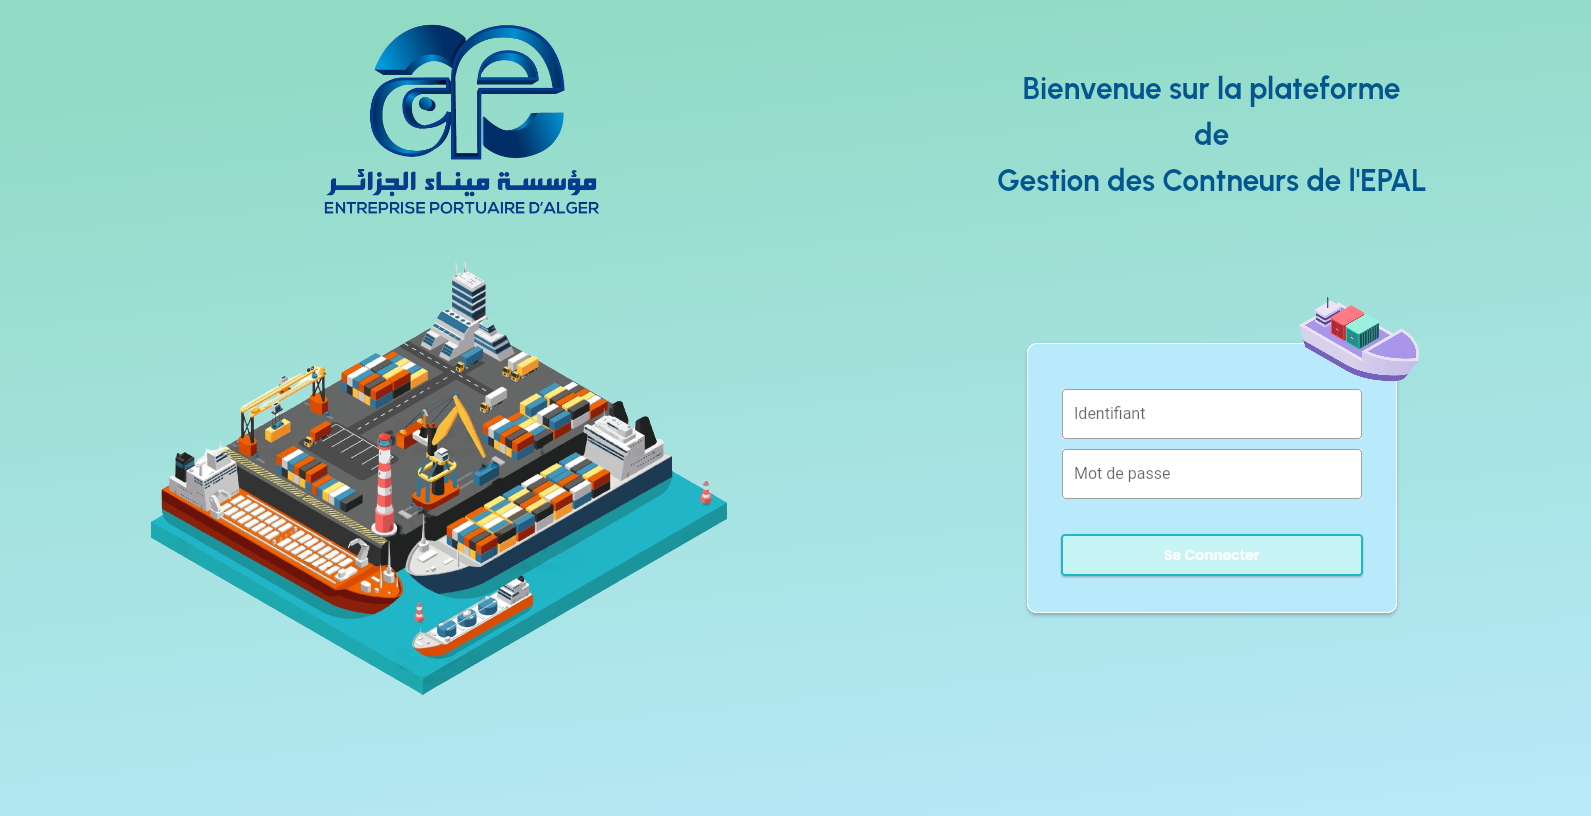
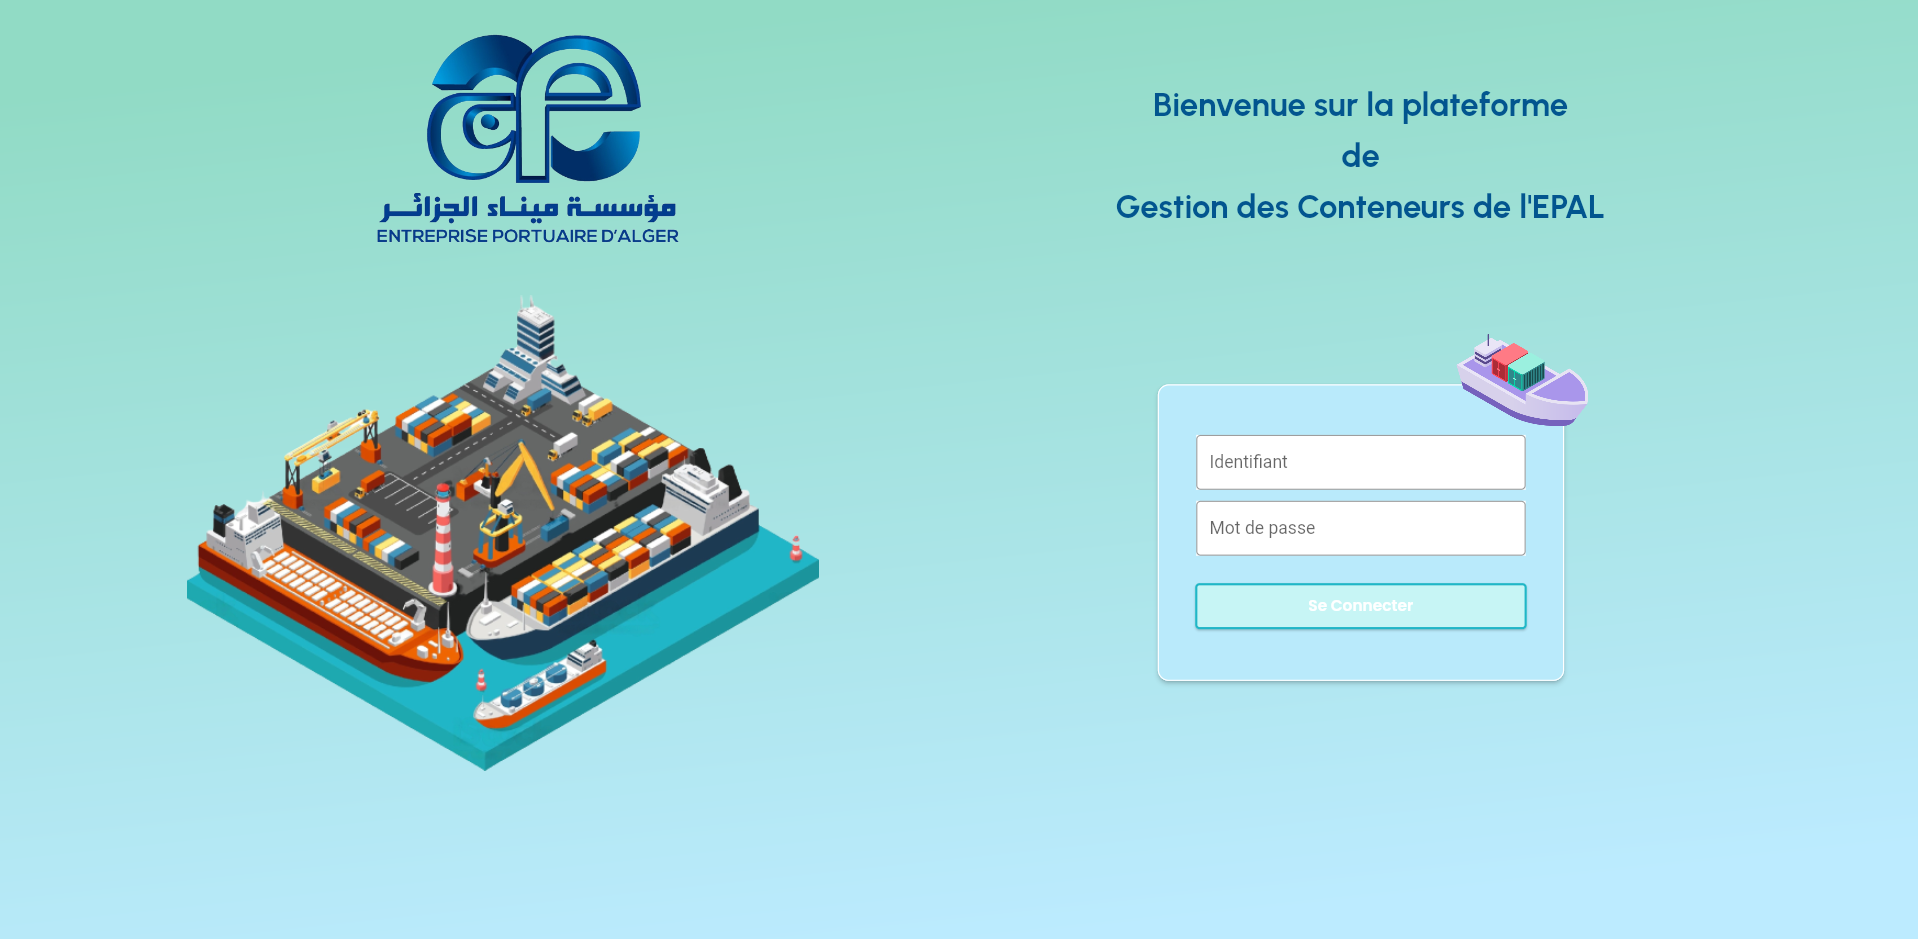
update admin login UI

diff --git a/epal/lib/WebPages/LoginPage.dart b/epal/lib/WebPages/LoginPage.dart
@@ -147,7 +147,7 @@ class _WebLoginPageState extends State<WebLoginPage> {
                   Padding(
                     padding: const EdgeInsets.only(bottom: 140),
                     child: Text(
-                      'Gestion des Contneurs de l\'EPAL',
+                      'Gestion des Conteneurs de l\'EPAL',
                       style: TextStyle(
                         color: Color(0xFF02558F),
                         fontFamily: 'Urbanist',
